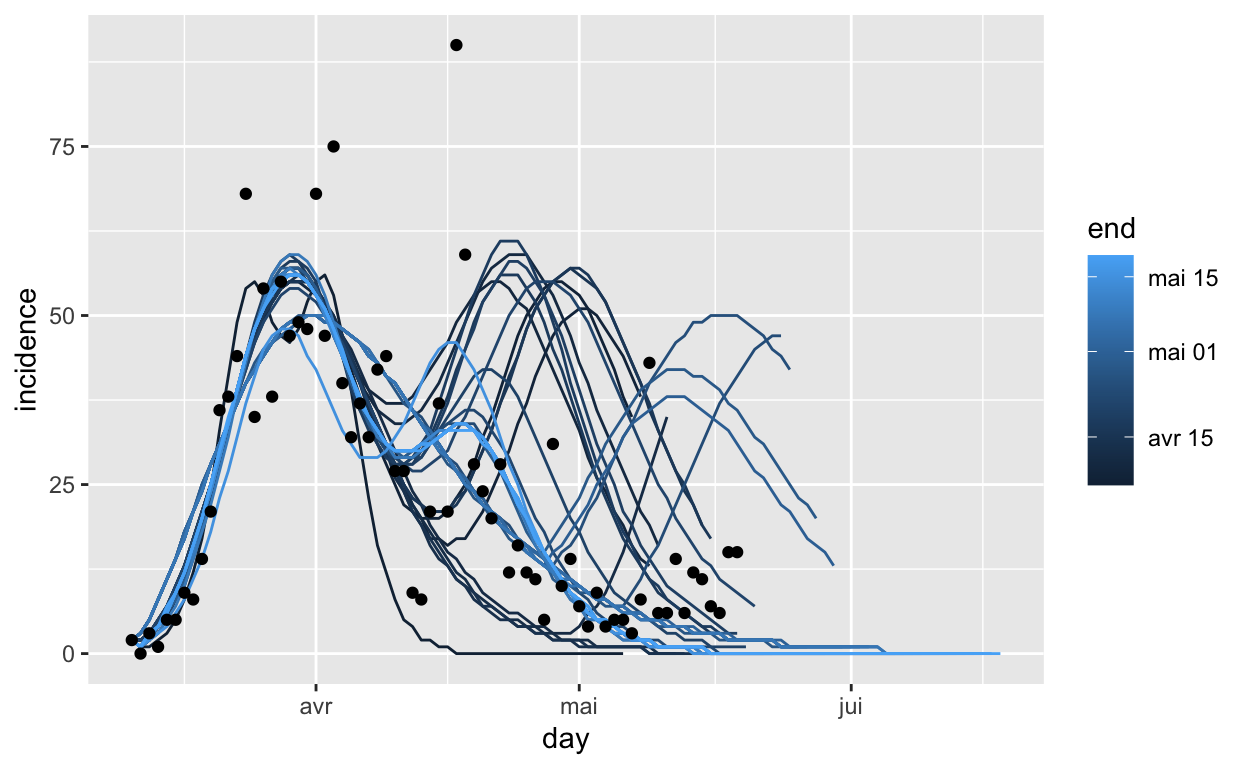
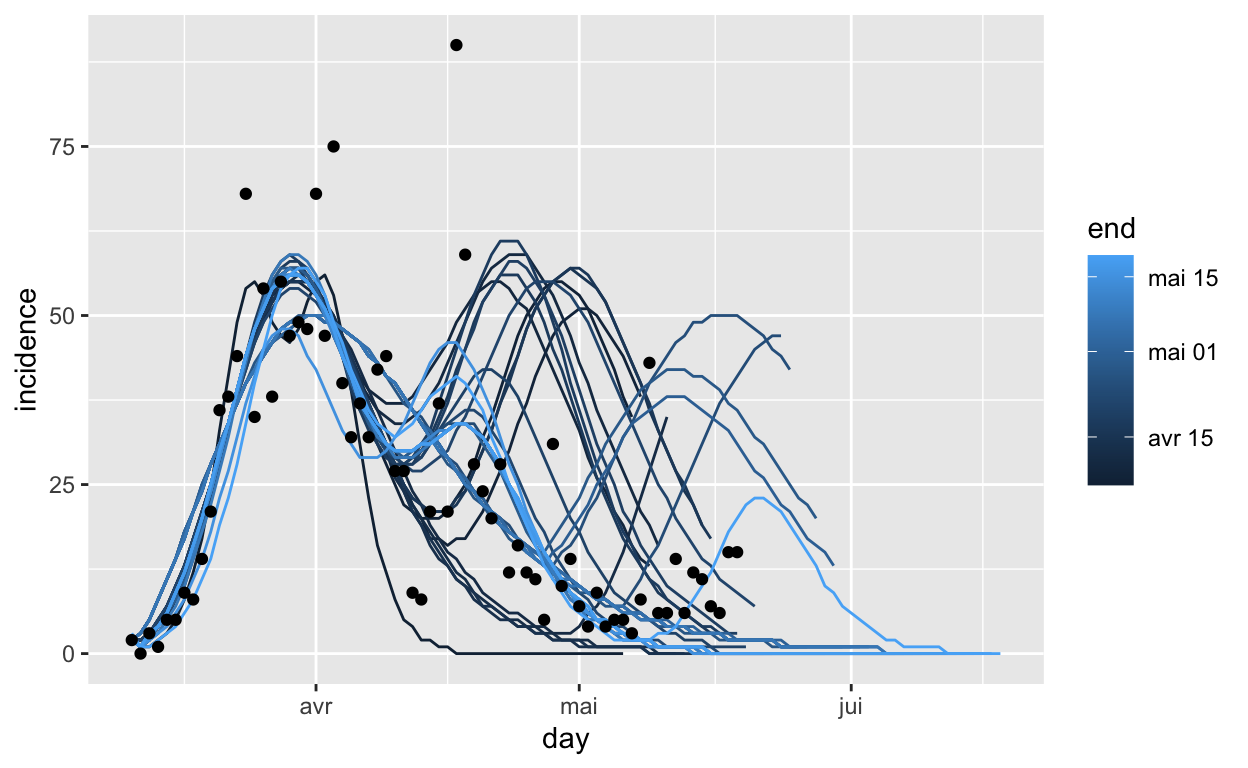
Add the third wave

diff --git a/docs/glme.html b/docs/glme.html
@@ -1303,7 +1303,7 @@
 <div class="layout-chunk" data-layout="l-body">
 
 </div>
-<p>Atnaujinta: 2020-05-20 15:24:23.</p>
+<p>Atnaujinta: 2020-05-20 16:02:27.</p>
 <h1 id="duomenys-modeliavimui">Duomenys modeliavimui</h1>
 <div class="layout-chunk" data-layout="l-body">
 <div data-pagedtable="false">
@@ -1340,7 +1340,7 @@ Error in if (state[i - 1] &gt; Ct) { : missing value where TRUE/FALSE needed</co
 <div class="layout-chunk" data-layout="l-body">
 <div data-pagedtable="false">
 <script data-pagedtable-source type="application/json">
-{"columns":[{"label":["day"],"name":[1],"type":["date"],"align":["right"]},{"label":["2020-05-17"],"name":[2],"type":["int"],"align":["right"]},{"label":["2020-05-18"],"name":[3],"type":["int"],"align":["right"]},{"label":["2020-05-19"],"name":[4],"type":["int"],"align":["right"]},{"label":["historic"],"name":[5],"type":["int"],"align":["right"]}],"data":[{"1":"2020-03-11","2":"2","3":"2","4":"2","5":"2"},{"1":"2020-03-12","2":"1","3":"1","4":"1","5":"0"},{"1":"2020-03-13","2":"3","3":"3","4":"3","5":"3"},{"1":"2020-03-14","2":"4","3":"4","4":"4","5":"1"},{"1":"2020-03-15","2":"6","3":"6","4":"7","5":"5"},{"1":"2020-03-16","2":"9","3":"9","4":"9","5":"5"},{"1":"2020-03-17","2":"12","3":"12","4":"12","5":"9"},{"1":"2020-03-18","2":"16","3":"16","4":"16","5":"8"},{"1":"2020-03-19","2":"20","3":"20","4":"20","5":"14"},{"1":"2020-03-20","2":"25","3":"25","4":"25","5":"21"},{"1":"2020-03-21","2":"30","3":"30","4":"30","5":"36"},{"1":"2020-03-22","2":"34","3":"34","4":"35","5":"38"},{"1":"2020-03-23","2":"39","3":"39","4":"39","5":"44"},{"1":"2020-03-24","2":"44","3":"44","4":"44","5":"68"},{"1":"2020-03-25","2":"48","3":"48","4":"48","5":"35"},{"1":"2020-03-26","2":"51","3":"51","4":"51","5":"54"},{"1":"2020-03-27","2":"54","3":"54","4":"53","5":"38"},{"1":"2020-03-28","2":"55","3":"55","4":"55","5":"55"},{"1":"2020-03-29","2":"56","3":"56","4":"56","5":"47"},{"1":"2020-03-30","2":"56","3":"56","4":"56","5":"49"},{"1":"2020-03-31","2":"55","3":"55","4":"55","5":"48"},{"1":"2020-04-01","2":"53","3":"53","4":"53","5":"68"},{"1":"2020-04-02","2":"51","3":"51","4":"51","5":"47"},{"1":"2020-04-03","2":"48","3":"48","4":"48","5":"75"},{"1":"2020-04-04","2":"44","3":"44","4":"45","5":"40"},{"1":"2020-04-05","2":"41","3":"41","4":"41","5":"32"},{"1":"2020-04-06","2":"37","3":"38","4":"38","5":"37"},{"1":"2020-04-07","2":"35","3":"35","4":"35","5":"32"},{"1":"2020-04-08","2":"33","3":"33","4":"33","5":"42"},{"1":"2020-04-09","2":"31","3":"31","4":"31","5":"44"},{"1":"2020-04-10","2":"30","3":"30","4":"30","5":"27"},{"1":"2020-04-11","2":"30","3":"30","4":"30","5":"27"},{"1":"2020-04-12","2":"30","3":"30","4":"30","5":"9"},{"1":"2020-04-13","2":"31","3":"31","4":"30","5":"8"},{"1":"2020-04-14","2":"31","3":"31","4":"31","5":"21"},{"1":"2020-04-15","2":"32","3":"32","4":"32","5":"37"},{"1":"2020-04-16","2":"33","3":"33","4":"33","5":"21"},{"1":"2020-04-17","2":"34","3":"34","4":"33","5":"90"},{"1":"2020-04-18","2":"34","3":"34","4":"33","5":"59"},{"1":"2020-04-19","2":"33","3":"33","4":"33","5":"28"},{"1":"2020-04-20","2":"32","3":"32","4":"31","5":"24"},{"1":"2020-04-21","2":"30","3":"30","4":"30","5":"20"},{"1":"2020-04-22","2":"28","3":"28","4":"27","5":"28"},{"1":"2020-04-23","2":"25","3":"25","4":"25","5":"12"},{"1":"2020-04-24","2":"23","3":"23","4":"22","5":"16"},{"1":"2020-04-25","2":"20","3":"20","4":"20","5":"12"},{"1":"2020-04-26","2":"17","3":"18","4":"17","5":"11"},{"1":"2020-04-27","2":"15","3":"15","4":"15","5":"5"},{"1":"2020-04-28","2":"13","3":"13","4":"13","5":"31"},{"1":"2020-04-29","2":"11","3":"11","4":"11","5":"10"},{"1":"2020-04-30","2":"9","3":"9","4":"9","5":"14"},{"1":"2020-05-01","2":"8","3":"8","4":"8","5":"7"},{"1":"2020-05-02","2":"7","3":"7","4":"6","5":"4"},{"1":"2020-05-03","2":"5","3":"5","4":"5","5":"9"},{"1":"2020-05-04","2":"5","3":"5","4":"5","5":"4"},{"1":"2020-05-05","2":"4","3":"4","4":"4","5":"5"},{"1":"2020-05-06","2":"3","3":"3","4":"3","5":"5"},{"1":"2020-05-07","2":"3","3":"3","4":"3","5":"3"},{"1":"2020-05-08","2":"2","3":"2","4":"2","5":"8"},{"1":"2020-05-09","2":"2","3":"2","4":"2","5":"43"},{"1":"2020-05-10","2":"1","3":"1","4":"1","5":"6"},{"1":"2020-05-11","2":"1","3":"1","4":"1","5":"6"},{"1":"2020-05-12","2":"1","3":"1","4":"1","5":"14"},{"1":"2020-05-13","2":"1","3":"1","4":"1","5":"6"},{"1":"2020-05-14","2":"1","3":"1","4":"1","5":"12"},{"1":"2020-05-15","2":"1","3":"1","4":"1","5":"11"},{"1":"2020-05-16","2":"0","3":"0","4":"0","5":"7"},{"1":"2020-05-17","2":"0","3":"0","4":"0","5":"6"},{"1":"2020-05-18","2":"0","3":"0","4":"0","5":"15"},{"1":"2020-05-19","2":"0","3":"0","4":"0","5":"15"},{"1":"2020-05-20","2":"0","3":"0","4":"0","5":"NA"},{"1":"2020-05-21","2":"0","3":"0","4":"0","5":"NA"},{"1":"2020-05-22","2":"0","3":"0","4":"0","5":"NA"},{"1":"2020-05-23","2":"0","3":"0","4":"0","5":"NA"},{"1":"2020-05-24","2":"0","3":"0","4":"0","5":"NA"},{"1":"2020-05-25","2":"0","3":"0","4":"0","5":"NA"},{"1":"2020-05-26","2":"0","3":"0","4":"0","5":"NA"},{"1":"2020-05-27","2":"0","3":"0","4":"0","5":"NA"},{"1":"2020-05-28","2":"0","3":"0","4":"0","5":"NA"},{"1":"2020-05-29","2":"0","3":"0","4":"0","5":"NA"},{"1":"2020-05-30","2":"0","3":"0","4":"0","5":"NA"},{"1":"2020-05-31","2":"0","3":"0","4":"0","5":"NA"},{"1":"2020-06-01","2":"0","3":"0","4":"0","5":"NA"},{"1":"2020-06-02","2":"0","3":"0","4":"0","5":"NA"},{"1":"2020-06-03","2":"0","3":"0","4":"0","5":"NA"},{"1":"2020-06-04","2":"0","3":"0","4":"0","5":"NA"},{"1":"2020-06-05","2":"0","3":"0","4":"0","5":"NA"},{"1":"2020-06-06","2":"0","3":"0","4":"0","5":"NA"},{"1":"2020-06-07","2":"0","3":"0","4":"0","5":"NA"},{"1":"2020-06-08","2":"0","3":"0","4":"0","5":"NA"},{"1":"2020-06-09","2":"0","3":"0","4":"0","5":"NA"},{"1":"2020-06-10","2":"0","3":"0","4":"0","5":"NA"},{"1":"2020-06-11","2":"0","3":"0","4":"0","5":"NA"},{"1":"2020-06-12","2":"0","3":"0","4":"0","5":"NA"},{"1":"2020-06-13","2":"0","3":"0","4":"0","5":"NA"},{"1":"2020-06-14","2":"0","3":"0","4":"0","5":"NA"},{"1":"2020-06-15","2":"0","3":"0","4":"0","5":"NA"},{"1":"2020-06-16","2":"0","3":"0","4":"0","5":"NA"},{"1":"2020-06-17","2":"NA","3":"0","4":"0","5":"NA"},{"1":"2020-06-18","2":"NA","3":"NA","4":"0","5":"NA"}],"options":{"columns":{"min":{},"max":[10]},"rows":{"min":[10],"max":[10]},"pages":{}}}
+{"columns":[{"label":["day"],"name":[1],"type":["date"],"align":["right"]},{"label":["2020-05-17"],"name":[2],"type":["int"],"align":["right"]},{"label":["2020-05-18"],"name":[3],"type":["int"],"align":["right"]},{"label":["2020-05-19"],"name":[4],"type":["int"],"align":["right"]},{"label":["historic"],"name":[5],"type":["int"],"align":["right"]}],"data":[{"1":"2020-03-11","2":"2","3":"2","4":"3","5":"2"},{"1":"2020-03-12","2":"1","3":"1","4":"1","5":"0"},{"1":"2020-03-13","2":"3","3":"3","4":"1","5":"3"},{"1":"2020-03-14","2":"4","3":"4","4":"2","5":"1"},{"1":"2020-03-15","2":"6","3":"6","4":"3","5":"5"},{"1":"2020-03-16","2":"9","3":"9","4":"4","5":"5"},{"1":"2020-03-17","2":"12","3":"12","4":"6","5":"9"},{"1":"2020-03-18","2":"16","3":"16","4":"8","5":"8"},{"1":"2020-03-19","2":"20","3":"20","4":"11","5":"14"},{"1":"2020-03-20","2":"25","3":"25","4":"14","5":"21"},{"1":"2020-03-21","2":"30","3":"30","4":"19","5":"36"},{"1":"2020-03-22","2":"34","3":"34","4":"23","5":"38"},{"1":"2020-03-23","2":"39","3":"39","4":"28","5":"44"},{"1":"2020-03-24","2":"44","3":"44","4":"34","5":"68"},{"1":"2020-03-25","2":"48","3":"48","4":"40","5":"35"},{"1":"2020-03-26","2":"51","3":"51","4":"45","5":"54"},{"1":"2020-03-27","2":"54","3":"54","4":"50","5":"38"},{"1":"2020-03-28","2":"55","3":"55","4":"54","5":"55"},{"1":"2020-03-29","2":"56","3":"56","4":"56","5":"47"},{"1":"2020-03-30","2":"56","3":"56","4":"57","5":"49"},{"1":"2020-03-31","2":"55","3":"55","4":"57","5":"48"},{"1":"2020-04-01","2":"53","3":"53","4":"55","5":"68"},{"1":"2020-04-02","2":"51","3":"51","4":"53","5":"47"},{"1":"2020-04-03","2":"48","3":"48","4":"49","5":"75"},{"1":"2020-04-04","2":"44","3":"44","4":"46","5":"40"},{"1":"2020-04-05","2":"41","3":"41","4":"42","5":"32"},{"1":"2020-04-06","2":"37","3":"38","4":"39","5":"37"},{"1":"2020-04-07","2":"35","3":"35","4":"36","5":"32"},{"1":"2020-04-08","2":"33","3":"33","4":"34","5":"42"},{"1":"2020-04-09","2":"31","3":"31","4":"33","5":"44"},{"1":"2020-04-10","2":"30","3":"30","4":"32","5":"27"},{"1":"2020-04-11","2":"30","3":"30","4":"33","5":"27"},{"1":"2020-04-12","2":"30","3":"30","4":"34","5":"9"},{"1":"2020-04-13","2":"31","3":"31","4":"36","5":"8"},{"1":"2020-04-14","2":"31","3":"31","4":"38","5":"21"},{"1":"2020-04-15","2":"32","3":"32","4":"39","5":"37"},{"1":"2020-04-16","2":"33","3":"33","4":"40","5":"21"},{"1":"2020-04-17","2":"34","3":"34","4":"41","5":"90"},{"1":"2020-04-18","2":"34","3":"34","4":"40","5":"59"},{"1":"2020-04-19","2":"33","3":"33","4":"38","5":"28"},{"1":"2020-04-20","2":"32","3":"32","4":"36","5":"24"},{"1":"2020-04-21","2":"30","3":"30","4":"32","5":"20"},{"1":"2020-04-22","2":"28","3":"28","4":"29","5":"28"},{"1":"2020-04-23","2":"25","3":"25","4":"25","5":"12"},{"1":"2020-04-24","2":"23","3":"23","4":"22","5":"16"},{"1":"2020-04-25","2":"20","3":"20","4":"19","5":"12"},{"1":"2020-04-26","2":"17","3":"18","4":"16","5":"11"},{"1":"2020-04-27","2":"15","3":"15","4":"13","5":"5"},{"1":"2020-04-28","2":"13","3":"13","4":"11","5":"31"},{"1":"2020-04-29","2":"11","3":"11","4":"9","5":"10"},{"1":"2020-04-30","2":"9","3":"9","4":"7","5":"14"},{"1":"2020-05-01","2":"8","3":"8","4":"6","5":"7"},{"1":"2020-05-02","2":"7","3":"7","4":"5","5":"4"},{"1":"2020-05-03","2":"5","3":"5","4":"4","5":"9"},{"1":"2020-05-04","2":"5","3":"5","4":"3","5":"4"},{"1":"2020-05-05","2":"4","3":"4","4":"2","5":"5"},{"1":"2020-05-06","2":"3","3":"3","4":"2","5":"5"},{"1":"2020-05-07","2":"3","3":"3","4":"2","5":"3"},{"1":"2020-05-08","2":"2","3":"2","4":"2","5":"8"},{"1":"2020-05-09","2":"2","3":"2","4":"2","5":"43"},{"1":"2020-05-10","2":"1","3":"1","4":"3","5":"6"},{"1":"2020-05-11","2":"1","3":"1","4":"3","5":"6"},{"1":"2020-05-12","2":"1","3":"1","4":"4","5":"14"},{"1":"2020-05-13","2":"1","3":"1","4":"6","5":"6"},{"1":"2020-05-14","2":"1","3":"1","4":"8","5":"12"},{"1":"2020-05-15","2":"1","3":"1","4":"10","5":"11"},{"1":"2020-05-16","2":"0","3":"0","4":"12","5":"7"},{"1":"2020-05-17","2":"0","3":"0","4":"15","5":"6"},{"1":"2020-05-18","2":"0","3":"0","4":"18","5":"15"},{"1":"2020-05-19","2":"0","3":"0","4":"20","5":"15"},{"1":"2020-05-20","2":"0","3":"0","4":"22","5":"NA"},{"1":"2020-05-21","2":"0","3":"0","4":"23","5":"NA"},{"1":"2020-05-22","2":"0","3":"0","4":"23","5":"NA"},{"1":"2020-05-23","2":"0","3":"0","4":"22","5":"NA"},{"1":"2020-05-24","2":"0","3":"0","4":"21","5":"NA"},{"1":"2020-05-25","2":"0","3":"0","4":"19","5":"NA"},{"1":"2020-05-26","2":"0","3":"0","4":"17","5":"NA"},{"1":"2020-05-27","2":"0","3":"0","4":"15","5":"NA"},{"1":"2020-05-28","2":"0","3":"0","4":"13","5":"NA"},{"1":"2020-05-29","2":"0","3":"0","4":"10","5":"NA"},{"1":"2020-05-30","2":"0","3":"0","4":"9","5":"NA"},{"1":"2020-05-31","2":"0","3":"0","4":"7","5":"NA"},{"1":"2020-06-01","2":"0","3":"0","4":"6","5":"NA"},{"1":"2020-06-02","2":"0","3":"0","4":"5","5":"NA"},{"1":"2020-06-03","2":"0","3":"0","4":"4","5":"NA"},{"1":"2020-06-04","2":"0","3":"0","4":"3","5":"NA"},{"1":"2020-06-05","2":"0","3":"0","4":"2","5":"NA"},{"1":"2020-06-06","2":"0","3":"0","4":"2","5":"NA"},{"1":"2020-06-07","2":"0","3":"0","4":"1","5":"NA"},{"1":"2020-06-08","2":"0","3":"0","4":"1","5":"NA"},{"1":"2020-06-09","2":"0","3":"0","4":"1","5":"NA"},{"1":"2020-06-10","2":"0","3":"0","4":"1","5":"NA"},{"1":"2020-06-11","2":"0","3":"0","4":"1","5":"NA"},{"1":"2020-06-12","2":"0","3":"0","4":"0","5":"NA"},{"1":"2020-06-13","2":"0","3":"0","4":"0","5":"NA"},{"1":"2020-06-14","2":"0","3":"0","4":"0","5":"NA"},{"1":"2020-06-15","2":"0","3":"0","4":"0","5":"NA"},{"1":"2020-06-16","2":"0","3":"0","4":"0","5":"NA"},{"1":"2020-06-17","2":"NA","3":"0","4":"0","5":"NA"},{"1":"2020-06-18","2":"NA","3":"NA","4":"0","5":"NA"}],"options":{"columns":{"min":{},"max":[10]},"rows":{"min":[10],"max":[10]},"pages":{}}}
   </script>
 </div>
 </div>
@@ -1348,7 +1348,7 @@ Error in if (state[i - 1] &gt; Ct) { : missing value where TRUE/FALSE needed</co
 <div class="layout-chunk" data-layout="l-body">
 <div data-pagedtable="false">
 <script data-pagedtable-source type="application/json">
-{"columns":[{"label":["day"],"name":[1],"type":["date"],"align":["right"]},{"label":["2020-05-17"],"name":[2],"type":["int"],"align":["right"]},{"label":["2020-05-18"],"name":[3],"type":["int"],"align":["right"]},{"label":["2020-05-19"],"name":[4],"type":["int"],"align":["right"]},{"label":["historic"],"name":[5],"type":["int"],"align":["right"]}],"data":[{"1":"2020-03-11","2":"3","3":"3","4":"3","5":"3"},{"1":"2020-03-12","2":"4","3":"4","4":"4","5":"3"},{"1":"2020-03-13","2":"7","3":"7","4":"7","5":"6"},{"1":"2020-03-14","2":"11","3":"11","4":"11","5":"7"},{"1":"2020-03-15","2":"17","3":"17","4":"18","5":"12"},{"1":"2020-03-16","2":"26","3":"26","4":"27","5":"17"},{"1":"2020-03-17","2":"38","3":"38","4":"39","5":"26"},{"1":"2020-03-18","2":"54","3":"54","4":"55","5":"34"},{"1":"2020-03-19","2":"74","3":"74","4":"75","5":"48"},{"1":"2020-03-20","2":"99","3":"99","4":"100","5":"69"},{"1":"2020-03-21","2":"129","3":"129","4":"130","5":"105"},{"1":"2020-03-22","2":"163","3":"163","4":"165","5":"143"},{"1":"2020-03-23","2":"202","3":"202","4":"204","5":"187"},{"1":"2020-03-24","2":"246","3":"246","4":"248","5":"255"},{"1":"2020-03-25","2":"294","3":"294","4":"296","5":"290"},{"1":"2020-03-26","2":"345","3":"345","4":"347","5":"344"},{"1":"2020-03-27","2":"399","3":"399","4":"400","5":"382"},{"1":"2020-03-28","2":"454","3":"454","4":"455","5":"437"},{"1":"2020-03-29","2":"510","3":"510","4":"511","5":"484"},{"1":"2020-03-30","2":"566","3":"566","4":"567","5":"533"},{"1":"2020-03-31","2":"621","3":"621","4":"622","5":"581"},{"1":"2020-04-01","2":"674","3":"674","4":"675","5":"649"},{"1":"2020-04-02","2":"725","3":"725","4":"726","5":"696"},{"1":"2020-04-03","2":"773","3":"773","4":"774","5":"771"},{"1":"2020-04-04","2":"817","3":"817","4":"819","5":"811"},{"1":"2020-04-05","2":"858","3":"858","4":"860","5":"843"},{"1":"2020-04-06","2":"895","3":"896","4":"898","5":"880"},{"1":"2020-04-07","2":"930","3":"931","4":"933","5":"912"},{"1":"2020-04-08","2":"963","3":"964","4":"966","5":"954"},{"1":"2020-04-09","2":"994","3":"995","4":"997","5":"998"},{"1":"2020-04-10","2":"1024","3":"1025","4":"1027","5":"1025"},{"1":"2020-04-11","2":"1054","3":"1055","4":"1057","5":"1052"},{"1":"2020-04-12","2":"1084","3":"1085","4":"1087","5":"1061"},{"1":"2020-04-13","2":"1115","3":"1116","4":"1117","5":"1069"},{"1":"2020-04-14","2":"1146","3":"1147","4":"1148","5":"1090"},{"1":"2020-04-15","2":"1178","3":"1179","4":"1180","5":"1127"},{"1":"2020-04-16","2":"1211","3":"1212","4":"1213","5":"1148"},{"1":"2020-04-17","2":"1245","3":"1246","4":"1246","5":"1238"},{"1":"2020-04-18","2":"1279","3":"1280","4":"1279","5":"1297"},{"1":"2020-04-19","2":"1312","3":"1313","4":"1312","5":"1325"},{"1":"2020-04-20","2":"1344","3":"1345","4":"1343","5":"1349"},{"1":"2020-04-21","2":"1374","3":"1375","4":"1373","5":"1369"},{"1":"2020-04-22","2":"1402","3":"1403","4":"1400","5":"1397"},{"1":"2020-04-23","2":"1427","3":"1428","4":"1425","5":"1409"},{"1":"2020-04-24","2":"1450","3":"1451","4":"1447","5":"1425"},{"1":"2020-04-25","2":"1470","3":"1471","4":"1467","5":"1437"},{"1":"2020-04-26","2":"1487","3":"1489","4":"1484","5":"1448"},{"1":"2020-04-27","2":"1502","3":"1504","4":"1499","5":"1453"},{"1":"2020-04-28","2":"1515","3":"1517","4":"1512","5":"1484"},{"1":"2020-04-29","2":"1526","3":"1528","4":"1523","5":"1494"},{"1":"2020-04-30","2":"1535","3":"1537","4":"1532","5":"1508"},{"1":"2020-05-01","2":"1543","3":"1545","4":"1540","5":"1515"},{"1":"2020-05-02","2":"1550","3":"1552","4":"1546","5":"1519"},{"1":"2020-05-03","2":"1555","3":"1557","4":"1551","5":"1528"},{"1":"2020-05-04","2":"1560","3":"1562","4":"1556","5":"1532"},{"1":"2020-05-05","2":"1564","3":"1566","4":"1560","5":"1537"},{"1":"2020-05-06","2":"1567","3":"1569","4":"1563","5":"1542"},{"1":"2020-05-07","2":"1570","3":"1572","4":"1566","5":"1545"},{"1":"2020-05-08","2":"1572","3":"1574","4":"1568","5":"1553"},{"1":"2020-05-09","2":"1574","3":"1576","4":"1570","5":"1596"},{"1":"2020-05-10","2":"1575","3":"1577","4":"1571","5":"1602"},{"1":"2020-05-11","2":"1576","3":"1578","4":"1572","5":"1608"},{"1":"2020-05-12","2":"1577","3":"1579","4":"1573","5":"1622"},{"1":"2020-05-13","2":"1578","3":"1580","4":"1574","5":"1628"},{"1":"2020-05-14","2":"1579","3":"1581","4":"1575","5":"1640"},{"1":"2020-05-15","2":"1580","3":"1582","4":"1576","5":"1651"},{"1":"2020-05-16","2":"1580","3":"1582","4":"1576","5":"1658"},{"1":"2020-05-17","2":"1580","3":"1582","4":"1576","5":"1664"},{"1":"2020-05-18","2":"1580","3":"1582","4":"1576","5":"1679"},{"1":"2020-05-19","2":"1580","3":"1582","4":"1576","5":"1694"},{"1":"2020-05-20","2":"1580","3":"1582","4":"1576","5":"NA"},{"1":"2020-05-21","2":"1580","3":"1582","4":"1576","5":"NA"},{"1":"2020-05-22","2":"1580","3":"1582","4":"1576","5":"NA"},{"1":"2020-05-23","2":"1580","3":"1582","4":"1576","5":"NA"},{"1":"2020-05-24","2":"1580","3":"1582","4":"1576","5":"NA"},{"1":"2020-05-25","2":"1580","3":"1582","4":"1576","5":"NA"},{"1":"2020-05-26","2":"1580","3":"1582","4":"1576","5":"NA"},{"1":"2020-05-27","2":"1580","3":"1582","4":"1576","5":"NA"},{"1":"2020-05-28","2":"1580","3":"1582","4":"1576","5":"NA"},{"1":"2020-05-29","2":"1580","3":"1582","4":"1576","5":"NA"},{"1":"2020-05-30","2":"1580","3":"1582","4":"1576","5":"NA"},{"1":"2020-05-31","2":"1580","3":"1582","4":"1576","5":"NA"},{"1":"2020-06-01","2":"1580","3":"1582","4":"1576","5":"NA"},{"1":"2020-06-02","2":"1580","3":"1582","4":"1576","5":"NA"},{"1":"2020-06-03","2":"1580","3":"1582","4":"1576","5":"NA"},{"1":"2020-06-04","2":"1580","3":"1582","4":"1576","5":"NA"},{"1":"2020-06-05","2":"1580","3":"1582","4":"1576","5":"NA"},{"1":"2020-06-06","2":"1580","3":"1582","4":"1576","5":"NA"},{"1":"2020-06-07","2":"1580","3":"1582","4":"1576","5":"NA"},{"1":"2020-06-08","2":"1580","3":"1582","4":"1576","5":"NA"},{"1":"2020-06-09","2":"1580","3":"1582","4":"1576","5":"NA"},{"1":"2020-06-10","2":"1580","3":"1582","4":"1576","5":"NA"},{"1":"2020-06-11","2":"1580","3":"1582","4":"1576","5":"NA"},{"1":"2020-06-12","2":"1580","3":"1582","4":"1576","5":"NA"},{"1":"2020-06-13","2":"1580","3":"1582","4":"1576","5":"NA"},{"1":"2020-06-14","2":"1580","3":"1582","4":"1576","5":"NA"},{"1":"2020-06-15","2":"1580","3":"1582","4":"1576","5":"NA"},{"1":"2020-06-16","2":"1580","3":"1582","4":"1576","5":"NA"},{"1":"2020-06-17","2":"NA","3":"1582","4":"1576","5":"NA"},{"1":"2020-06-18","2":"NA","3":"NA","4":"1576","5":"NA"}],"options":{"columns":{"min":{},"max":[10]},"rows":{"min":[10],"max":[10]},"pages":{}}}
+{"columns":[{"label":["day"],"name":[1],"type":["date"],"align":["right"]},{"label":["2020-05-17"],"name":[2],"type":["int"],"align":["right"]},{"label":["2020-05-18"],"name":[3],"type":["int"],"align":["right"]},{"label":["2020-05-19"],"name":[4],"type":["int"],"align":["right"]},{"label":["historic"],"name":[5],"type":["int"],"align":["right"]}],"data":[{"1":"2020-03-11","2":"3","3":"3","4":"4","5":"3"},{"1":"2020-03-12","2":"4","3":"4","4":"5","5":"3"},{"1":"2020-03-13","2":"7","3":"7","4":"6","5":"6"},{"1":"2020-03-14","2":"11","3":"11","4":"8","5":"7"},{"1":"2020-03-15","2":"17","3":"17","4":"11","5":"12"},{"1":"2020-03-16","2":"26","3":"26","4":"15","5":"17"},{"1":"2020-03-17","2":"38","3":"38","4":"21","5":"26"},{"1":"2020-03-18","2":"54","3":"54","4":"29","5":"34"},{"1":"2020-03-19","2":"74","3":"74","4":"40","5":"48"},{"1":"2020-03-20","2":"99","3":"99","4":"54","5":"69"},{"1":"2020-03-21","2":"129","3":"129","4":"73","5":"105"},{"1":"2020-03-22","2":"163","3":"163","4":"96","5":"143"},{"1":"2020-03-23","2":"202","3":"202","4":"124","5":"187"},{"1":"2020-03-24","2":"246","3":"246","4":"158","5":"255"},{"1":"2020-03-25","2":"294","3":"294","4":"198","5":"290"},{"1":"2020-03-26","2":"345","3":"345","4":"243","5":"344"},{"1":"2020-03-27","2":"399","3":"399","4":"293","5":"382"},{"1":"2020-03-28","2":"454","3":"454","4":"347","5":"437"},{"1":"2020-03-29","2":"510","3":"510","4":"403","5":"484"},{"1":"2020-03-30","2":"566","3":"566","4":"460","5":"533"},{"1":"2020-03-31","2":"621","3":"621","4":"517","5":"581"},{"1":"2020-04-01","2":"674","3":"674","4":"572","5":"649"},{"1":"2020-04-02","2":"725","3":"725","4":"625","5":"696"},{"1":"2020-04-03","2":"773","3":"773","4":"674","5":"771"},{"1":"2020-04-04","2":"817","3":"817","4":"720","5":"811"},{"1":"2020-04-05","2":"858","3":"858","4":"762","5":"843"},{"1":"2020-04-06","2":"895","3":"896","4":"801","5":"880"},{"1":"2020-04-07","2":"930","3":"931","4":"837","5":"912"},{"1":"2020-04-08","2":"963","3":"964","4":"871","5":"954"},{"1":"2020-04-09","2":"994","3":"995","4":"904","5":"998"},{"1":"2020-04-10","2":"1024","3":"1025","4":"936","5":"1025"},{"1":"2020-04-11","2":"1054","3":"1055","4":"969","5":"1052"},{"1":"2020-04-12","2":"1084","3":"1085","4":"1003","5":"1061"},{"1":"2020-04-13","2":"1115","3":"1116","4":"1039","5":"1069"},{"1":"2020-04-14","2":"1146","3":"1147","4":"1077","5":"1090"},{"1":"2020-04-15","2":"1178","3":"1179","4":"1116","5":"1127"},{"1":"2020-04-16","2":"1211","3":"1212","4":"1156","5":"1148"},{"1":"2020-04-17","2":"1245","3":"1246","4":"1197","5":"1238"},{"1":"2020-04-18","2":"1279","3":"1280","4":"1237","5":"1297"},{"1":"2020-04-19","2":"1312","3":"1313","4":"1275","5":"1325"},{"1":"2020-04-20","2":"1344","3":"1345","4":"1311","5":"1349"},{"1":"2020-04-21","2":"1374","3":"1375","4":"1343","5":"1369"},{"1":"2020-04-22","2":"1402","3":"1403","4":"1372","5":"1397"},{"1":"2020-04-23","2":"1427","3":"1428","4":"1397","5":"1409"},{"1":"2020-04-24","2":"1450","3":"1451","4":"1419","5":"1425"},{"1":"2020-04-25","2":"1470","3":"1471","4":"1438","5":"1437"},{"1":"2020-04-26","2":"1487","3":"1489","4":"1454","5":"1448"},{"1":"2020-04-27","2":"1502","3":"1504","4":"1467","5":"1453"},{"1":"2020-04-28","2":"1515","3":"1517","4":"1478","5":"1484"},{"1":"2020-04-29","2":"1526","3":"1528","4":"1487","5":"1494"},{"1":"2020-04-30","2":"1535","3":"1537","4":"1494","5":"1508"},{"1":"2020-05-01","2":"1543","3":"1545","4":"1500","5":"1515"},{"1":"2020-05-02","2":"1550","3":"1552","4":"1505","5":"1519"},{"1":"2020-05-03","2":"1555","3":"1557","4":"1509","5":"1528"},{"1":"2020-05-04","2":"1560","3":"1562","4":"1512","5":"1532"},{"1":"2020-05-05","2":"1564","3":"1566","4":"1514","5":"1537"},{"1":"2020-05-06","2":"1567","3":"1569","4":"1516","5":"1542"},{"1":"2020-05-07","2":"1570","3":"1572","4":"1518","5":"1545"},{"1":"2020-05-08","2":"1572","3":"1574","4":"1520","5":"1553"},{"1":"2020-05-09","2":"1574","3":"1576","4":"1522","5":"1596"},{"1":"2020-05-10","2":"1575","3":"1577","4":"1525","5":"1602"},{"1":"2020-05-11","2":"1576","3":"1578","4":"1528","5":"1608"},{"1":"2020-05-12","2":"1577","3":"1579","4":"1532","5":"1622"},{"1":"2020-05-13","2":"1578","3":"1580","4":"1538","5":"1628"},{"1":"2020-05-14","2":"1579","3":"1581","4":"1546","5":"1640"},{"1":"2020-05-15","2":"1580","3":"1582","4":"1556","5":"1651"},{"1":"2020-05-16","2":"1580","3":"1582","4":"1568","5":"1658"},{"1":"2020-05-17","2":"1580","3":"1582","4":"1583","5":"1664"},{"1":"2020-05-18","2":"1580","3":"1582","4":"1601","5":"1679"},{"1":"2020-05-19","2":"1580","3":"1582","4":"1621","5":"1694"},{"1":"2020-05-20","2":"1580","3":"1582","4":"1643","5":"NA"},{"1":"2020-05-21","2":"1580","3":"1582","4":"1666","5":"NA"},{"1":"2020-05-22","2":"1580","3":"1582","4":"1689","5":"NA"},{"1":"2020-05-23","2":"1580","3":"1582","4":"1711","5":"NA"},{"1":"2020-05-24","2":"1580","3":"1582","4":"1732","5":"NA"},{"1":"2020-05-25","2":"1580","3":"1582","4":"1751","5":"NA"},{"1":"2020-05-26","2":"1580","3":"1582","4":"1768","5":"NA"},{"1":"2020-05-27","2":"1580","3":"1582","4":"1783","5":"NA"},{"1":"2020-05-28","2":"1580","3":"1582","4":"1796","5":"NA"},{"1":"2020-05-29","2":"1580","3":"1582","4":"1806","5":"NA"},{"1":"2020-05-30","2":"1580","3":"1582","4":"1815","5":"NA"},{"1":"2020-05-31","2":"1580","3":"1582","4":"1822","5":"NA"},{"1":"2020-06-01","2":"1580","3":"1582","4":"1828","5":"NA"},{"1":"2020-06-02","2":"1580","3":"1582","4":"1833","5":"NA"},{"1":"2020-06-03","2":"1580","3":"1582","4":"1837","5":"NA"},{"1":"2020-06-04","2":"1580","3":"1582","4":"1840","5":"NA"},{"1":"2020-06-05","2":"1580","3":"1582","4":"1842","5":"NA"},{"1":"2020-06-06","2":"1580","3":"1582","4":"1844","5":"NA"},{"1":"2020-06-07","2":"1580","3":"1582","4":"1845","5":"NA"},{"1":"2020-06-08","2":"1580","3":"1582","4":"1846","5":"NA"},{"1":"2020-06-09","2":"1580","3":"1582","4":"1847","5":"NA"},{"1":"2020-06-10","2":"1580","3":"1582","4":"1848","5":"NA"},{"1":"2020-06-11","2":"1580","3":"1582","4":"1849","5":"NA"},{"1":"2020-06-12","2":"1580","3":"1582","4":"1849","5":"NA"},{"1":"2020-06-13","2":"1580","3":"1582","4":"1849","5":"NA"},{"1":"2020-06-14","2":"1580","3":"1582","4":"1849","5":"NA"},{"1":"2020-06-15","2":"1580","3":"1582","4":"1849","5":"NA"},{"1":"2020-06-16","2":"1580","3":"1582","4":"1849","5":"NA"},{"1":"2020-06-17","2":"NA","3":"1582","4":"1849","5":"NA"},{"1":"2020-06-18","2":"NA","3":"NA","4":"1849","5":"NA"}],"options":{"columns":{"min":{},"max":[10]},"rows":{"min":[10],"max":[10]},"pages":{}}}
   </script>
 </div>
 </div>
@@ -1357,7 +1357,7 @@ Error in if (state[i - 1] &gt; Ct) { : missing value where TRUE/FALSE needed</co
 <div class="layout-chunk" data-layout="l-body">
 <div data-pagedtable="false">
 <script data-pagedtable-source type="application/json">
-{"columns":[{"label":["end"],"name":[1],"type":["date"],"align":["right"]},{"label":["n"],"name":[2],"type":["int"],"align":["right"]},{"label":["r"],"name":[3],"type":["dbl"],"align":["right"]},{"label":["p"],"name":[4],"type":["dbl"],"align":["right"]},{"label":["K"],"name":[5],"type":["dbl"],"align":["right"]},{"label":["q"],"name":[6],"type":["dbl"],"align":["right"]},{"label":["Ct"],"name":[7],"type":["dbl"],"align":["right"]}],"data":[{"1":"2020-05-16","2":"2","3":"1.03","4":"0.73","5":"1174","6":"1.06","7":"898"},{"1":"2020-05-17","2":"2","3":"1.03","4":"0.73","5":"1175","6":"1.06","7":"899"},{"1":"2020-05-18","2":"2","3":"1.03","4":"0.73","5":"1176","6":"1.07","7":"900"},{"1":"2020-05-19","2":"2","3":"1.04","4":"0.73","5":"1181","6":"1.09","7":"906"}],"options":{"columns":{"min":{},"max":[10]},"rows":{"min":[10],"max":[10]},"pages":{}}}
+{"columns":[{"label":["end"],"name":[1],"type":["date"],"align":["right"]},{"label":["n"],"name":[2],"type":["int"],"align":["right"]},{"label":["r"],"name":[3],"type":["dbl"],"align":["right"]},{"label":["p"],"name":[4],"type":["dbl"],"align":["right"]},{"label":["K"],"name":[5],"type":["dbl"],"align":["right"]},{"label":["q"],"name":[6],"type":["dbl"],"align":["right"]},{"label":["Ct"],"name":[7],"type":["dbl"],"align":["right"]}],"data":[{"1":"2020-05-16","2":"2","3":"1.03","4":"0.73","5":"1174","6":"1.06","7":"898"},{"1":"2020-05-17","2":"2","3":"1.03","4":"0.73","5":"1175","6":"1.06","7":"899"},{"1":"2020-05-18","2":"2","3":"1.03","4":"0.73","5":"1176","6":"1.07","7":"900"},{"1":"2020-05-19","2":"3","3":"0.62","4":"0.85","5":"960","6":"0.54","7":"553"}],"options":{"columns":{"min":{},"max":[10]},"rows":{"min":[10],"max":[10]},"pages":{}}}
   </script>
 </div>
 </div>
